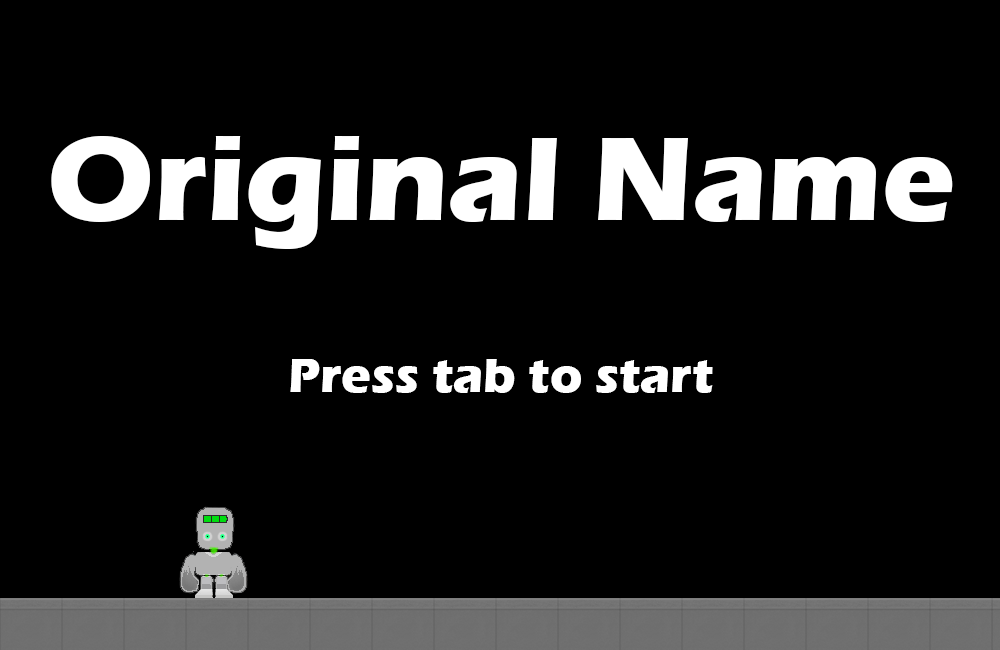
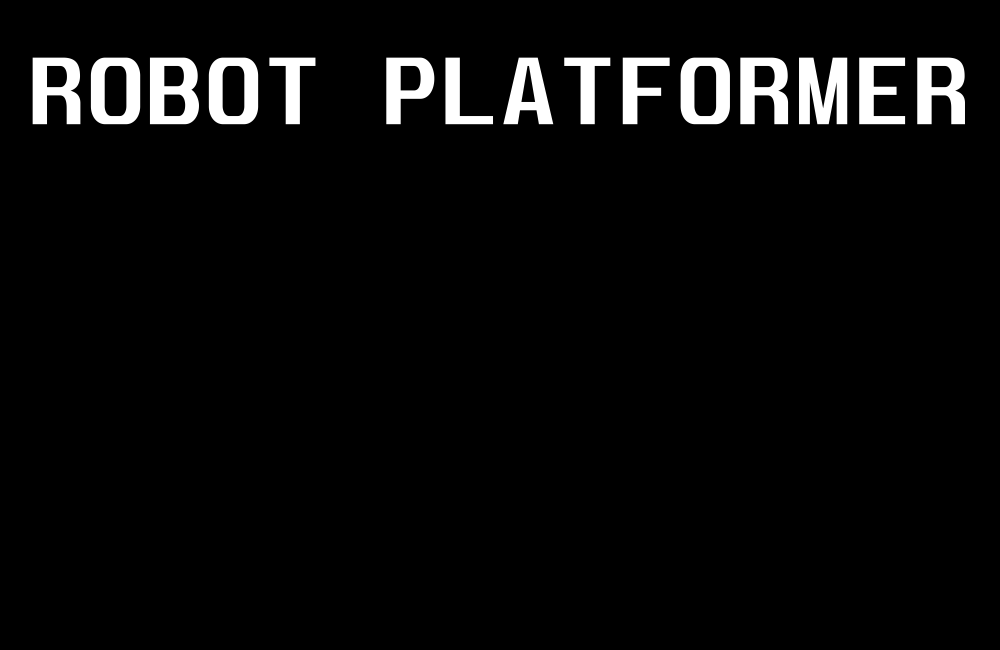
-

Changed region(s): [[0.031, 0.0615, 0.992, 0.4], [0.0, 0.7692, 1.0, 1.0], [0.279, 0.5538, 0.713, 0.6154]]

diff --git a/maps/images/tiles/Tiles.tsx b/maps/images/tiles/Tiles.tsx
@@ -1,5 +1,5 @@
 <?xml version="1.0" encoding="UTF-8"?>
-<tileset version="1.5" tiledversion="1.5.0" name="Tiles" tilewidth="128" tileheight="128" tilecount="5" columns="0">
+<tileset version="1.5" tiledversion="1.6.0" name="Tiles" tilewidth="128" tileheight="128" tilecount="7" columns="0">
  <grid orientation="orthogonal" width="1" height="1"/>
  <tile id="156">
   <image width="128" height="128" source="ConcreteLeft.png"/>
@@ -15,5 +15,11 @@
  </tile>
  <tile id="161">
   <image width="128" height="128" source="Concrete.png"/>
+ </tile>
+ <tile id="162">
+  <image width="128" height="128" source="ConcreteElectric.png"/>
+ </tile>
+ <tile id="163">
+  <image width="128" height="128" source="ConcreteZap.png"/>
  </tile>
 </tileset>

diff --git a/PlatformerGame.py b/PlatformerGame.py
@@ -1,7 +1,5 @@
 """
 Platformer Game
-
-python -m arcade.examples.platform_tutorial.11_animate_character
 """
 import arcade
 import os
@@ -10,7 +8,7 @@ import timeit
 # Constants
 SCREEN_WIDTH = 1280  # 1000
 SCREEN_HEIGHT = 720  # 650
-SCREEN_TITLE = "Platformer"
+SCREEN_TITLE = "Robot Platformer"
 
 # Constants used to scale our sprites from their original size
 TILE_SCALING = 0.5
@@ -63,6 +61,7 @@ class InstructionView(arcade.View):
         # Reset the viewport, necessary if we have a scrolling game and we need
         # to reset the viewport back to the start so we can see what we draw.
         arcade.set_viewport(0, SCREEN_WIDTH - 1, 0, SCREEN_HEIGHT - 1)
+        self.selected = 1
 
     def on_draw(self):
         """ Draw this view """
@@ -70,13 +69,43 @@ class InstructionView(arcade.View):
         self.texture.draw_sized(SCREEN_WIDTH / 2, SCREEN_HEIGHT / 2,
                                 SCREEN_WIDTH, SCREEN_HEIGHT)
 
+        if self.selected == 1:
+            arcade.draw_text("Start", 50, 400, arcade.csscolor.YELLOW, 50)
+        else:
+            arcade.draw_text("Start", 50, 400, arcade.csscolor.WHITE, 50)
+
+        if self.selected == 2:
+            arcade.draw_text(f"2 :{self.selected}", 50, 300, arcade.csscolor.YELLOW, 50)
+        else:
+            arcade.draw_text(f"2 :{self.selected}", 50, 300, arcade.csscolor.WHITE, 50)
+
+        if self.selected == 3:
+            arcade.draw_text(f"3 :{self.selected}", 50, 200, arcade.csscolor.YELLOW, 50)
+        else:
+            arcade.draw_text(f"3 :{self.selected}", 50, 200, arcade.csscolor.WHITE, 50)
+
+        if self.selected == 4:
+            arcade.draw_text(f"Quit{self.selected}", 50, 100, arcade.csscolor.YELLOW, 50)
+        else:
+            arcade.draw_text(f"Quit{self.selected}", 50, 100, arcade.csscolor.WHITE, 50)
+
     def on_key_press(self, key, modifiers):
         """Called whenever a key is pressed. """
 
-        if key == arcade.key.TAB or key == arcade.key.ENTER:
-            game_view = GameView()
-            game_view.setup(1)
-            self.window.show_view(game_view)
+        if key == arcade.key.UP or arcade.key.W:
+            self.selected -= 1
+            if self.selected <= 0:
+                self.selected = 4
+        if key == arcade.key.DOWN:
+            self.selected += 1
+
+        elif key == arcade.key.ENTER:
+            if self.selected == 1:
+                game_view = GameView()
+                game_view.setup(1)
+                self.window.show_view(game_view)
+            elif self.selected == 4:
+                arcade.close_window()
 
     # def on_mouse_press(self, _x, _y, _button, _modifiers):
 
@@ -348,7 +377,7 @@ class GameView(arcade.View):
         # --- Other stuff
         # Set the background color
         if my_map.background_color:
-            arcade.set_background_color(my_map.background_color)
+            arcade.set_background_color(arcade.csscolor.BLACK)  # my_map.background_color
 
         # Create the 'physics engine'
         self.physics_engine = arcade.PhysicsEnginePlatformer(self.player_sprite,
@@ -395,6 +424,8 @@ class GameView(arcade.View):
             self.health_texture = arcade.load_texture("maps/images/person/health_3.png")
         elif self.score == 2:
             self.health_texture = arcade.load_texture("maps/images/person/health_2.png")
+        else:
+            self.health_texture = arcade.load_texture("maps/images/person/health_1.png")
 
         # Draw our health on the screen, scrolling it with the character
         self.health_texture.draw_sized(self.player_sprite.center_x + 1.5, self.player_sprite.center_y + 16,
@@ -414,6 +445,8 @@ class GameView(arcade.View):
         tutorial_text = f"{self.tutorial}"
         arcade.draw_text(tutorial_text, 20 + self.view_left, 550 + self.view_bottom, arcade.csscolor.WHITE, 25)
         # arcade.draw_text(tutorial_text, SCREEN_WIDTH / 4, 400 + self.view_bottom, arcade.csscolor.WHITE, 18)
+        if self.level == 1:
+            arcade.draw_text("Don't Touch Marked Objects", 1200, 235, arcade.csscolor.RED, 25)
 
         # Draw hit boxes.
         # for wall in self.wall_list:
@@ -597,6 +630,10 @@ class GameView(arcade.View):
             self.view_bottom = 0
             changed_viewport = True
             arcade.play_sound(self.game_over)
+            self.score -= 1
+            if self.score <= 0:
+                view = GameOverView()
+                self.window.show_view(view)
 
         # See if the user got to the end of the level
         if self.player_sprite.center_x >= self.end_of_map:

diff --git a/PlatformerGameBackup.py b/PlatformerGameBackup.py
@@ -40,6 +40,7 @@ LEFT_FACING = 1
 # LEVEL MAX
 LEVEL_MAX = 1
 
+
 def load_texture_pair(filename):
     """
     Load a texture pair, with the second being a mirror image.
@@ -272,7 +273,6 @@ class GameView(arcade.View):
 
         # Map name
         map_name = f"maps/level_{level}.tmx"
-
 
         # Read in the tiled map
         my_map = arcade.tilemap.read_tmx(map_name)
